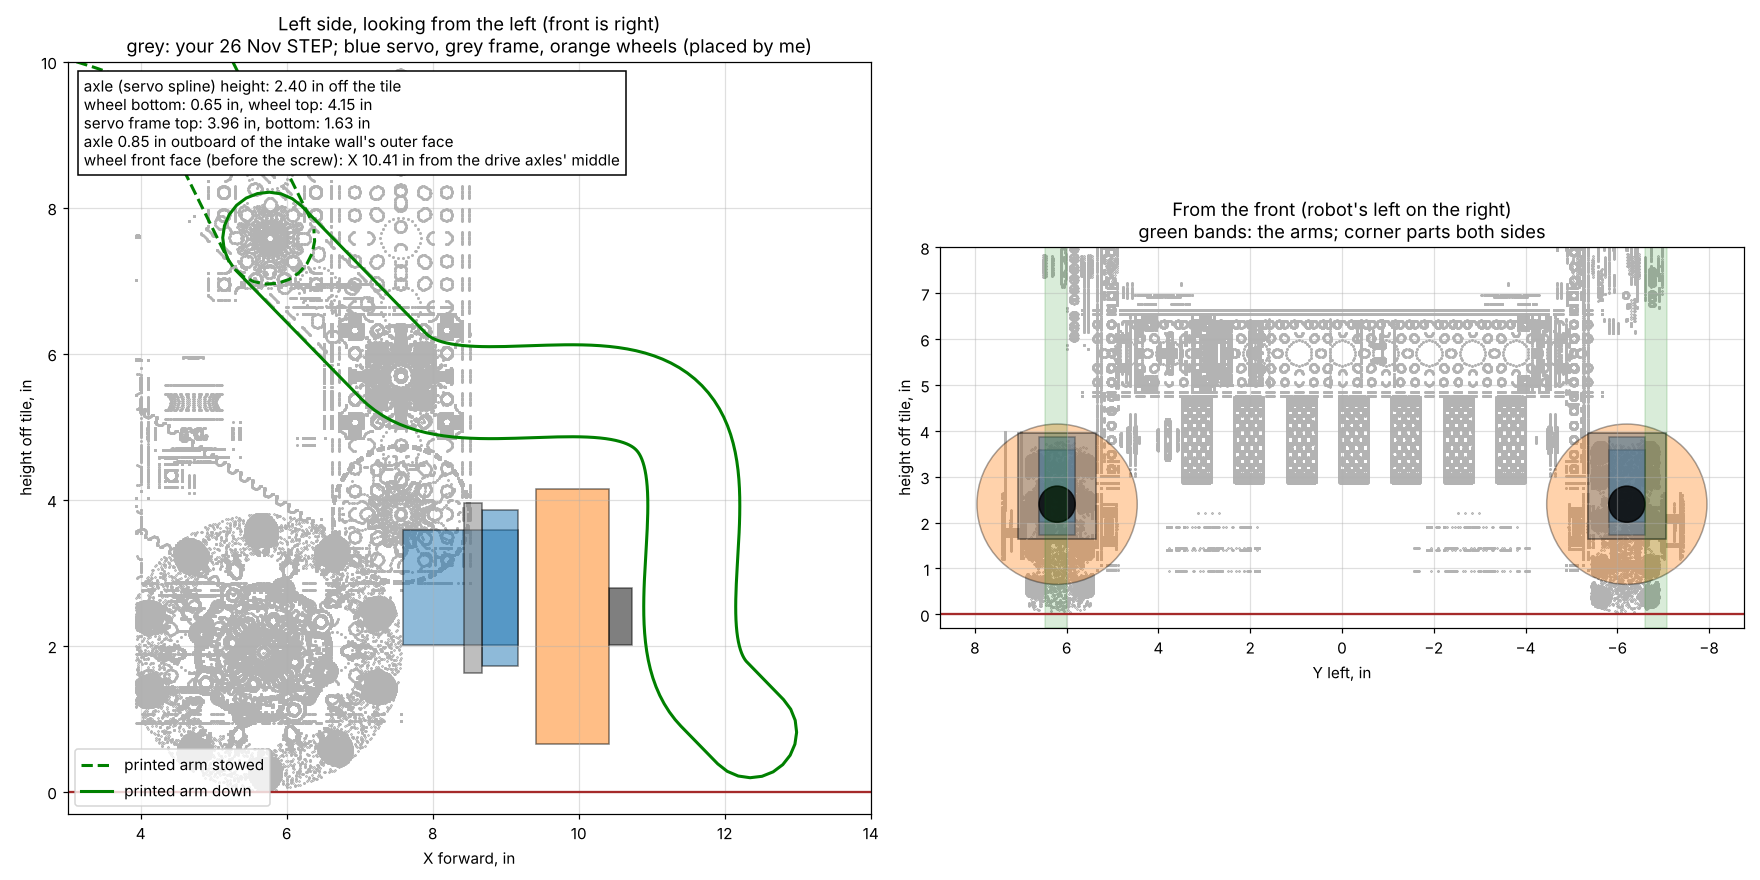
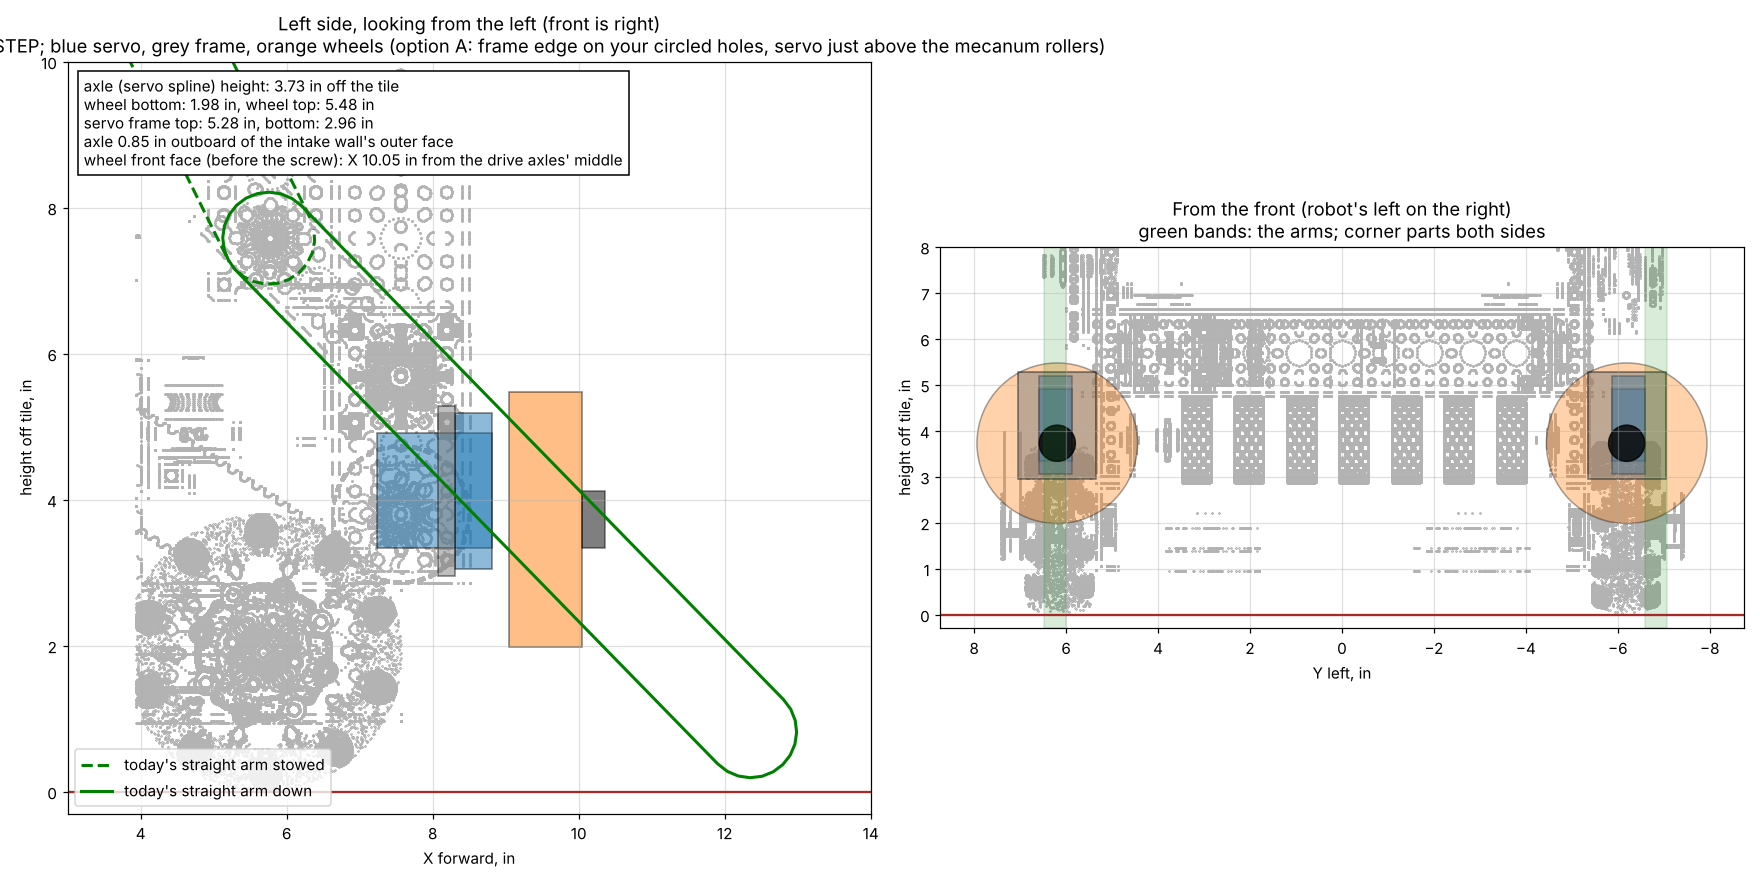
cad(flower arms): corner servo frame bolted by its edge to the intake channel's front hole column (mentor: option A)
The servo sits on the column's hole that keeps it above the front mecanum's rollers. At that height today's straight arm, down,
passes through the corner wheels' axle, so no hump fits yet: waiting on the mentor's measurement of the wheel height and
where the stick stops. The arm files are still the last ones that fit (the earlier, lower corner).

Claude-Session: https://claude.ai/code/session_01TTqzV4S3m3sGoFSMutKVEL

diff --git a/cad/flower-printed-arms/geometry.py b/cad/flower-printed-arms/geometry.py
@@ -39,31 +39,38 @@ ARM_Y = {"left": (152.23, 164.43), "right": (-167.53, -179.73)}   # the arms' ba
 
 # ---- the corner wheel, its servo and its mount ------------------------------------------------------------------------
 # Mentor, 26 Nov: a 3.5 in SWYFT Intake Wheel (vendor/ STEP: 88.74 mm across, 12.7 mm wide), two side by side, on a
-# goBILDA Speed servo (continuous) standing up, axle forward; the servo flush against the intake's side wall, under the
-# FLOWER stick's arm, just ahead of the front mecanum (mentor's arrows on the 3D view, 26 Nov). The wall: the intake side
-# channel's outer face, |Y| 5.363 in; the mecanum module's front at X 192 mm (31 Oct CAD). Not measured; the mount is a guess.
+# goBILDA Speed servo (continuous) standing up, axle forward, in goBILDA's 1802 Servo Frame (vendor/ STEP), "bolted on the
+# side so that the servo is basically flush with that wall". The wall is the intake's upright 5 Hole Lowside U-Channel
+# (26 Nov STEP: X 167.9 to 216.1, |Y| 123.8 to 135.8, Z from 72.6 up), whose outer face carries a column of holes at
+# X 208.0, Z 80.7 + 8k, next to its front edge (the mentor circled it). The frame's long edge lies on that face (option A,
+# mentor, 26 Nov), its edge holes (through the plate's middle, at -24, 0, +8 and +24 mm from the window's middle) on the
+# column, so the servo comes back through the window to X 183.8, over the front mecanum's front 8 mm, whose rollers reach
+# Z 80.1 there: the servo sits "high enough to clear it" (mentor), so its middle is on hole k = 3, the lowest with its
+# body and cable boss above the rollers.
 CORNER = dict(
     wheel_d=88.74,           # SWYFT Intake Wheel 3.5 in, from its STEP (vendor/)
     wheel_w=2 * 0.5 * IN,    # two SWYFT wheels side by side, no spacer (mentor, 26 Nov): 2 x 12.7 mm
-    wall_y=136.2,            # the intake side channel's outer face, |Y| 5.363 in (24 Nov STEP, via cad/corner-wheels on
-                             # claude/corner-module-wall-wip): the servo's INNER face against it (mentor's arrows, 26 Nov)
-    drive_front_x=192.0,     # the front mecanum module's front, X (31 Oct CAD)
-    servo_gap_x=1.0,         # the servo's back face this far ahead of it
-    wheel_z=2.4 * IN,        # PLACEHOLDER: axle height (the rim 0.65 in off the tile; "1-2 in off the ground")
-    servo_len=40.0,          # goBILDA Speed servo (2000-0025-0003, vendor/ STEP): the body along its spline (X), with its cap
-    servo_w=20.0,            # across (Y); the spline on the body's centre line
-    servo_h=40.0,            # upright (Z): the spline 10 mm up from its bottom end
-    tab_h=54.3,              # its mounting tabs, upright: 17.15 mm below the spline, 37.15 above
-    tab_len=12.8,            # along the spline (X), at the spline end
-    hub_gap=6.0,             # PLACEHOLDER: servo face to the wheels' back face (horn, hub)
-    frame_w=43.0,            # goBILDA 1802-0043-0001 Servo Frame (vendor/ STEP; mentor, 26 Nov: "what we were using"): a 6 mm
-    frame_len=59.0,          # aluminium plate, 59 x 43, the servo's body through its 41 x 21 window and its ears on it; one
-    frame_t=6.0,             # 59 mm edge against the intake wall (its side holes, as inside a U-channel), so the servo's centre
-                             # sits frame_w / 2 off the wall
+    wall_y=135.8,            # the intake channel's outer face, |Y| (26 Nov STEP)
+    hole_x=208.0,            # its front column of 4 mm holes, X; the holes at Z hole_z0 + 8k (26 Nov STEP)
+    hole_z0=80.7,
+    frame_holes_up=3,        # the servo body's middle on the column's hole hole_z0 + 8 x this (3: its body 4.6 mm, its
+                             # cable boss 0.6 mm, above the mecanum's rollers; one lower is in them)
+    frame_w=43.0,            # goBILDA 1802-0043-0001 Servo Frame (vendor/ STEP): a 6 mm aluminium plate, 59 x 43, the servo's
+    frame_len=59.0,          # body through its 41 x 21 window (in the plate's middle) and its ears on it
+    frame_t=6.0,
     ear_x=27.2,              # the servo's ears' underside, from its body's back end (vendor/ STEP)
+    servo_len=40.0,          # goBILDA Speed servo (2000-0025-0003, vendor/ STEP): the body along its spline (X), with its cap
+    servo_in=8.2,            # across (Y), from the spline: 8.2 inboard (its flat side, toward the channel), 10.2 outboard
+    servo_out=10.2,
+    servo_h=40.0,            # upright (Z): the spline 10 mm below the body's middle
+    tab_h=54.3,              # its ears, upright, 27.15 either side of the body's middle
+    tab_len=12.8,            # along the spline (X): the ears and the case above them
+    hub_gap=6.0,             # PLACEHOLDER: servo face to the wheels' back face (horn, hub)
     screw_d=20.0,            # PLACEHOLDER: the screw and washer on the wheels' front face, on the axle (mentor, 26 Nov):
     screw_len=8.0,           # a washer up to 20 mm across, the head and washer standing 8 mm proud
 )
+CORNER["frame_z"] = CORNER["hole_z0"] + 8.0 * CORNER["frame_holes_up"]   # the servo body's middle, Z
+CORNER["wheel_z"] = CORNER["frame_z"] - 10.0                               # the spline, so the wheels' axle
 
 CLEARANCE = 4.0              # the brief's "about half a hole" (goBILDA 8 mm grid)
 CUBE_FRONT_X = 10.43 * IN    # R102: the 18 in starting cube's front (the robot's back at X -7.57 in)
@@ -74,26 +81,21 @@ def corner_boxes(side):
     """The corner's parts as simple solids: ('cyl', centre, axis, radius, half-length) or ('box', lo, hi)."""
     c = CORNER
     s = 1 if side == "left" else -1
-    wy = s * (c["wall_y"] + c["frame_w"] / 2)          # the spline, so the wheels' axle: the frame's middle
-    y_in = abs(wy) - c["servo_w"] / 2
-    y_out = y_in + c["servo_w"]
-    sx0 = c["drive_front_x"] + c["servo_gap_x"]
+    wy = s * (c["wall_y"] + c["frame_w"] / 2)         # the spline, so the wheels' axle: the frame window's middle
+    fx0 = c["hole_x"] - c["frame_t"] / 2              # the frame plate, its edge holes on the wall's hole column
+    fx1 = fx0 + c["frame_t"]
+    sx0 = fx1 - c["ear_x"]                            # the servo body's back end
     sx1 = sx0 + c["servo_len"]
     wx0 = sx1 + c["hub_gap"]
     wx1 = wx0 + c["wheel_w"]
-    wheel = ("cyl", np.array([(wx0 + wx1) / 2, wy, c["wheel_z"]]), np.array([1.0, 0, 0]), c["wheel_d"] / 2,
-             c["wheel_w"] / 2)
-    ylo, yhi = sorted((s * y_in, s * y_out))
-    zlo, zhi = c["wheel_z"] - 10.0, c["wheel_z"] + c["servo_h"] - 10.0
-    servo = ("box", np.array([sx0, ylo, zlo]), np.array([sx1, yhi, zhi]))
-    tabs = ("box", np.array([sx1 - c["tab_len"], ylo, c["wheel_z"] - 17.15]),
-            np.array([sx1, yhi, c["wheel_z"] - 17.15 + c["tab_h"]]))
-    fx1 = sx0 + c["ear_x"]                            # the frame plate, under the ears
-    flo = sorted((s * c["wall_y"], s * (c["wall_y"] + c["frame_w"])))
-    zc = c["wheel_z"] + 10.0                          # the servo body's middle, upright
-    frame = ("box", np.array([fx1 - c["frame_t"], flo[0], zc - c["frame_len"] / 2]),
-             np.array([fx1, flo[1], zc + c["frame_len"] / 2]))
-    screw = ("cyl", np.array([wx1 + c["screw_len"] / 2, wy, c["wheel_z"]]), np.array([1.0, 0, 0]), c["screw_d"] / 2,
+    zc, wz = c["frame_z"], c["wheel_z"]
+    wheel = ("cyl", np.array([(wx0 + wx1) / 2, wy, wz]), np.array([1.0, 0, 0]), c["wheel_d"] / 2, c["wheel_w"] / 2)
+    ylo, yhi = sorted((wy - s * c["servo_in"], wy + s * c["servo_out"]))
+    servo = ("box", np.array([sx0, ylo, zc - c["servo_h"] / 2]), np.array([sx1, yhi, zc + c["servo_h"] / 2]))
+    tabs = ("box", np.array([sx1 - c["tab_len"], ylo, zc - c["tab_h"] / 2]), np.array([sx1, yhi, zc + c["tab_h"] / 2]))
+    flo, fhi = sorted((wy - c["frame_w"] / 2, wy + c["frame_w"] / 2))
+    frame = ("box", np.array([fx0, flo, zc - c["frame_len"] / 2]), np.array([fx1, fhi, zc + c["frame_len"] / 2]))
+    screw = ("cyl", np.array([wx1 + c["screw_len"] / 2, wy, wz]), np.array([1.0, 0, 0]), c["screw_d"] / 2,
              c["screw_len"] / 2)
     return {"wheel": wheel, "servo": servo, "tabs": tabs, "frame": frame, "screw": screw}
 

diff --git a/cad/flower-printed-arms/check.py b/cad/flower-printed-arms/check.py
@@ -2,7 +2,7 @@
 
     python3 cad/flower-printed-arms/check.py     # prints the table and writes clearance.json
 
-- **Against the corner parts** (geometry.corner_boxes: wheel, servo, SWYFT mount; PLACEHOLDERS until measured):
+- **Against the corner parts** (geometry.corner_boxes: wheels, servo, goBILDA servo frame):
   exact solid-to-solid distances (OpenCascade), each arm against its own corner, for today's straight channel and the
   printed arm.
 - **Against the rest of the robot:** the 31 Oct CAD (cad/advantagescope/Robot_BIOBUZZ/model.glb, the stick left out),
@@ -81,8 +81,10 @@ def real_servo(side):
     lo, hi = b["servo"][1], b["servo"][2]
     wz = b["wheel"][1][2]
     wy = b["wheel"][1][1]
-    # STEP (x, y, z) -> robot (X, Y, Z) = (lo.X + z + 27.2, wy - y, wz + x + 10)
-    M = np.array([[0, 0, 1, lo[0] + 27.2], [0, -1, 0, wy], [1, 0, 0, wz + 10.0], [0, 0, 0, 1.0]])
+    # STEP (x, y, z) -> robot (X, Y, Z) = (lo.X + z + 27.2, wy -+ y, wz + x + 10): its flat side (STEP +y, 8.2 mm from the
+    # spline) inboard, against the intake channel, on both sides (the right one mirrored)
+    sy = -1.0 if side == "left" else 1.0
+    M = np.array([[0, 0, 1, lo[0] + 27.2], [0, sy, 0, wy], [1, 0, 0, wz + 10.0], [0, 0, 0, 1.0]])
     return _SERVO.transformGeometry(to_cq_matrix(M))
 
 
@@ -161,7 +163,7 @@ def _row(d):
 
 
 def main():
-    report = {"units": "mm and in", "corner_parts": "the two SWYFT wheels as their 88.74 mm outer cylinder; servo and mount PLACEHOLDERS "
+    report = {"units": "mm and in", "corner_parts": "the two SWYFT wheels as their 88.74 mm outer cylinder; servo and goBILDA 1802 servo frame on the intake channel's front flange holes; wheel height from the mentor's photo, hub gap and screw PLACEHOLDERS "
                                                     "(geometry.CORNER) until measured", "sides": {}}
     tree = cKDTree(robot_points())
     angles = list(np.arange(0, SWING_DEG, 3.0)) + [SWING_DEG]
